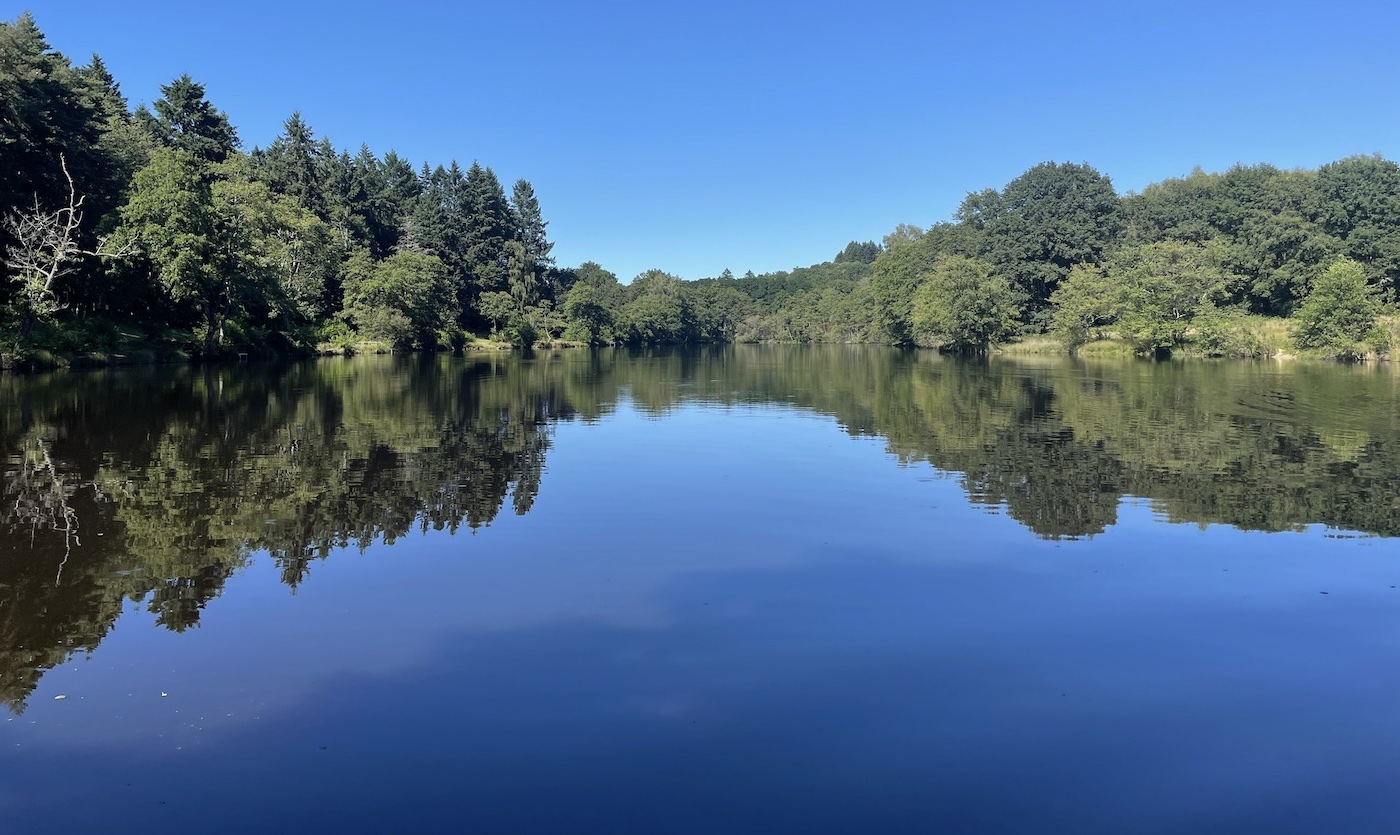
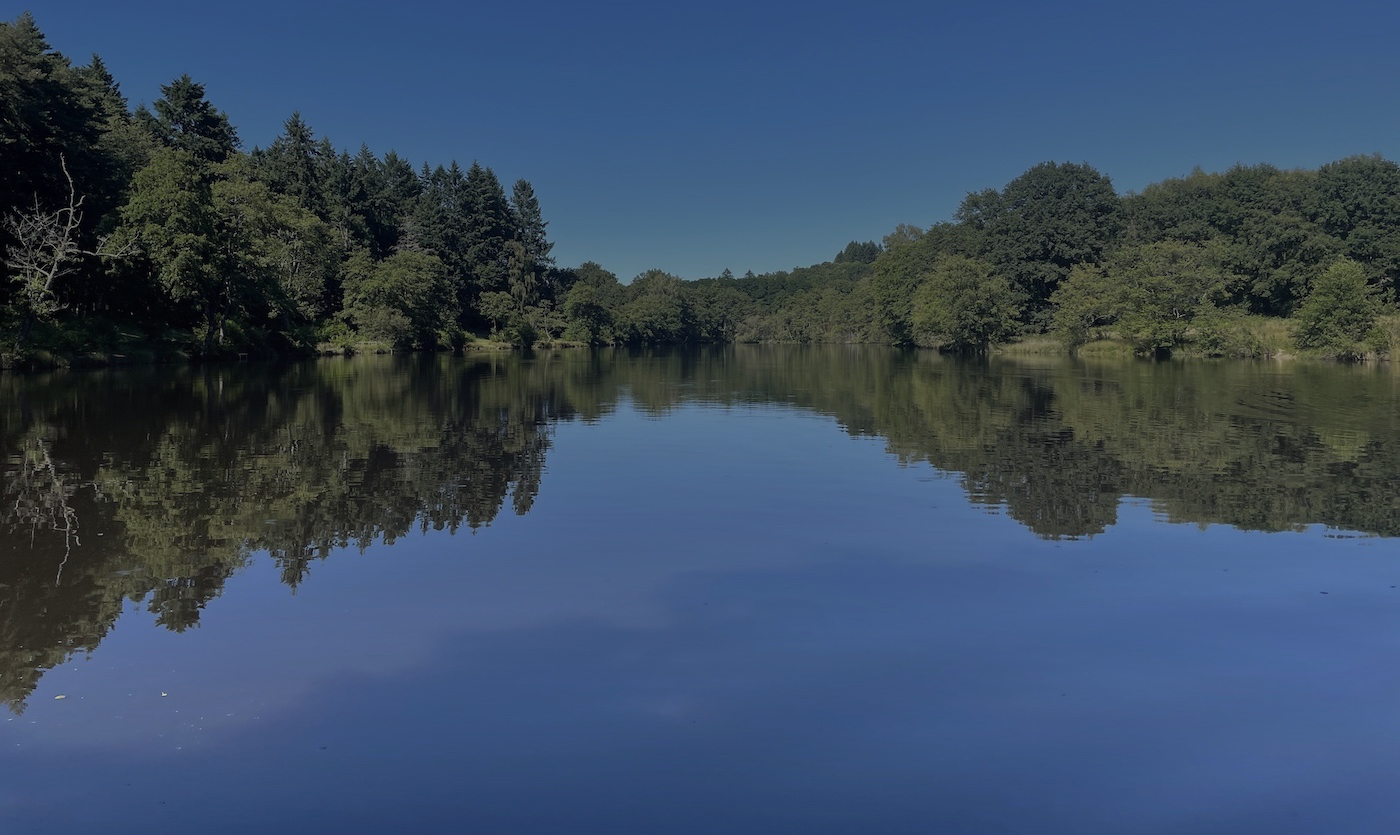
hero bg gradient

diff --git a/app/Models/Booking.php b/app/Models/Booking.php
@@ -25,4 +25,9 @@ class Booking extends Model
     {
         return $this->belongsTo(Priceguide::class);
     }
+
+    public function contact()
+    {
+        return $this->hasMany(Contact::class);
+    }
 }
